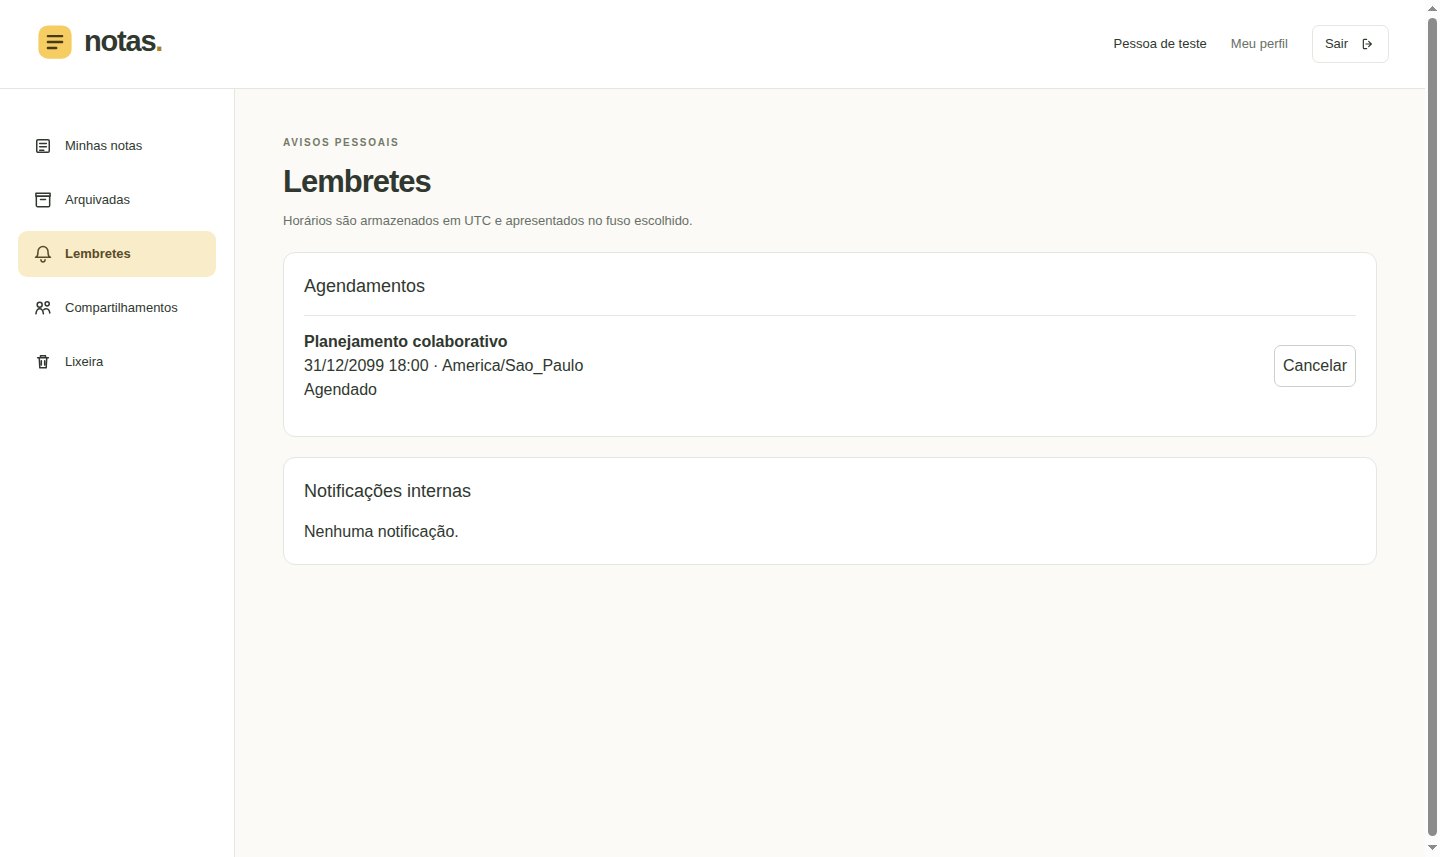
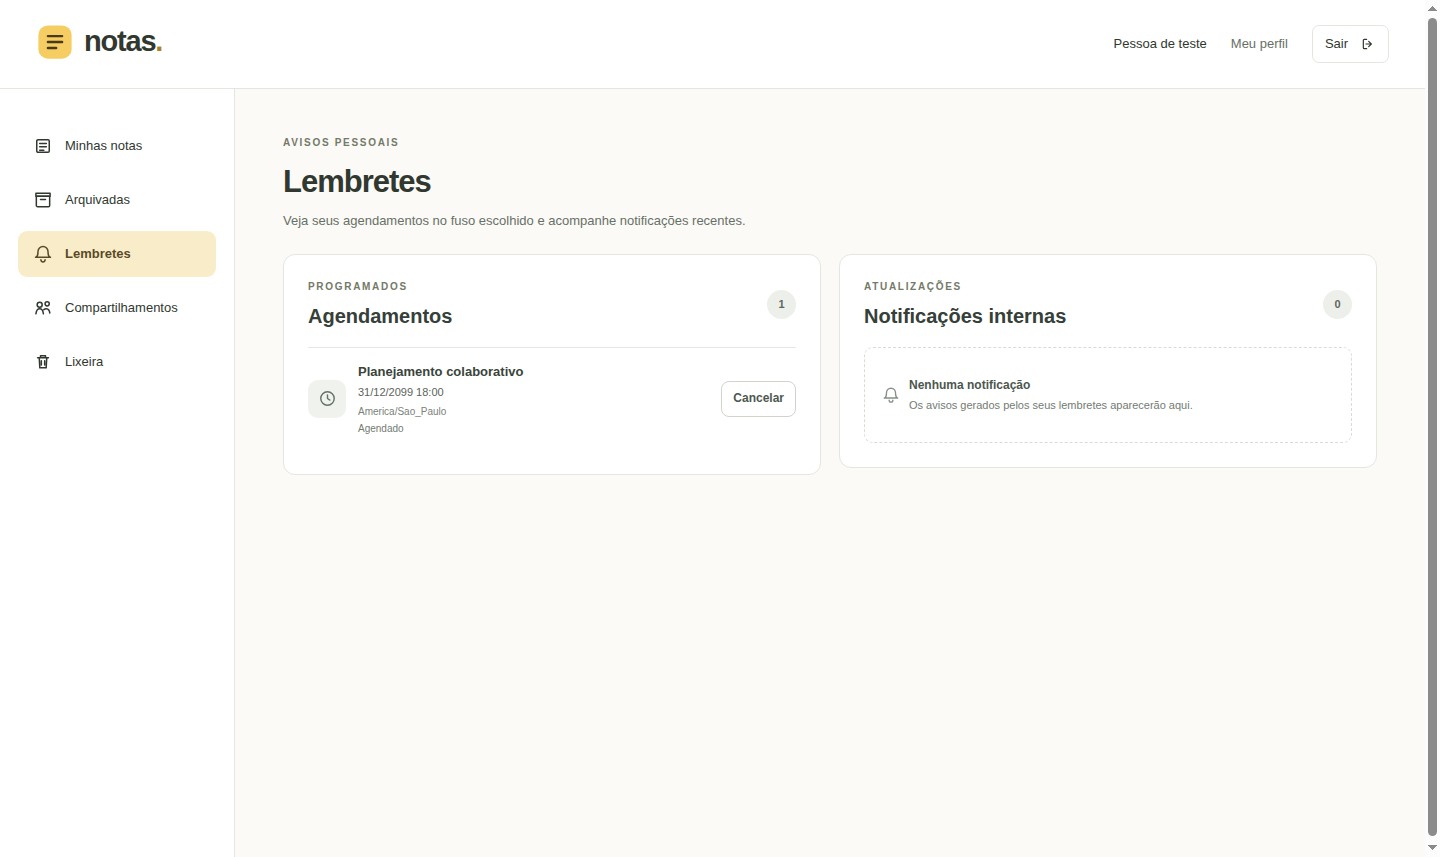
[Docs] Atualiza documentação e capturas da padronização visual

diff --git a/README.md b/README.md
@@ -260,6 +260,12 @@ As versões exatas estão em `composer.lock` e `package-lock.json`.
 | --- | --- |
 | Notas e ações - desktop | [captura](docs/capturas/expansoes-notas-desktop.png) |
 | Notas - celular | [captura](docs/capturas/expansoes-notas-celular.png) |
+| Cartão com Mais ações e lembrete - desktop | [captura](docs/capturas/padronizacao-cartao-acoes-desktop.png) |
+| Filtros e etiquetas - 320 px | [captura](docs/capturas/padronizacao-filtros-320.png) |
+| Arquivadas vazia - 390 px | [captura](docs/capturas/padronizacao-arquivadas-vazia-390.png) |
+| Lixeira vazia - 390 px | [captura](docs/capturas/padronizacao-lixeira-vazia-390.png) |
+| Compartilhamentos - desktop | [captura](docs/capturas/padronizacao-compartilhamentos-desktop.png) |
+| Compartilhamentos - 320 px | [captura](docs/capturas/padronizacao-compartilhamentos-320.png) |
 | Lembretes - desktop | [captura](docs/capturas/expansoes-lembretes-desktop.png) |
 | Criação e edição offline - celular | [captura](docs/capturas/expansoes-offline-celular.png) |
 
@@ -267,6 +273,6 @@ As capturas e contas fictícias foram produzidas somente depois do preflight HTT
 
 ## Git e atribuições
 
-Repositório independente em `main`, com identidade somente local: `MatheusRyuki <matheuskaiya2@gmail.com>`. Os cinco commits anteriores permanecem preservados; esta rodada fica no working tree, sem remote ou push. Nenhuma dependência ou arquivo exclusivo de agentes foi adicionada.
+Repositório independente em `main`, publicado em `MatheusRyuki/notas-laravel`. A rodada de padronização visual está registrada em commits locais; a publicação dessas alterações é uma etapa separada. Nenhuma dependência ou arquivo exclusivo de agentes foi adicionada.
 
 Consulte [licenças e atribuições](docs/atribuicoes.md).
